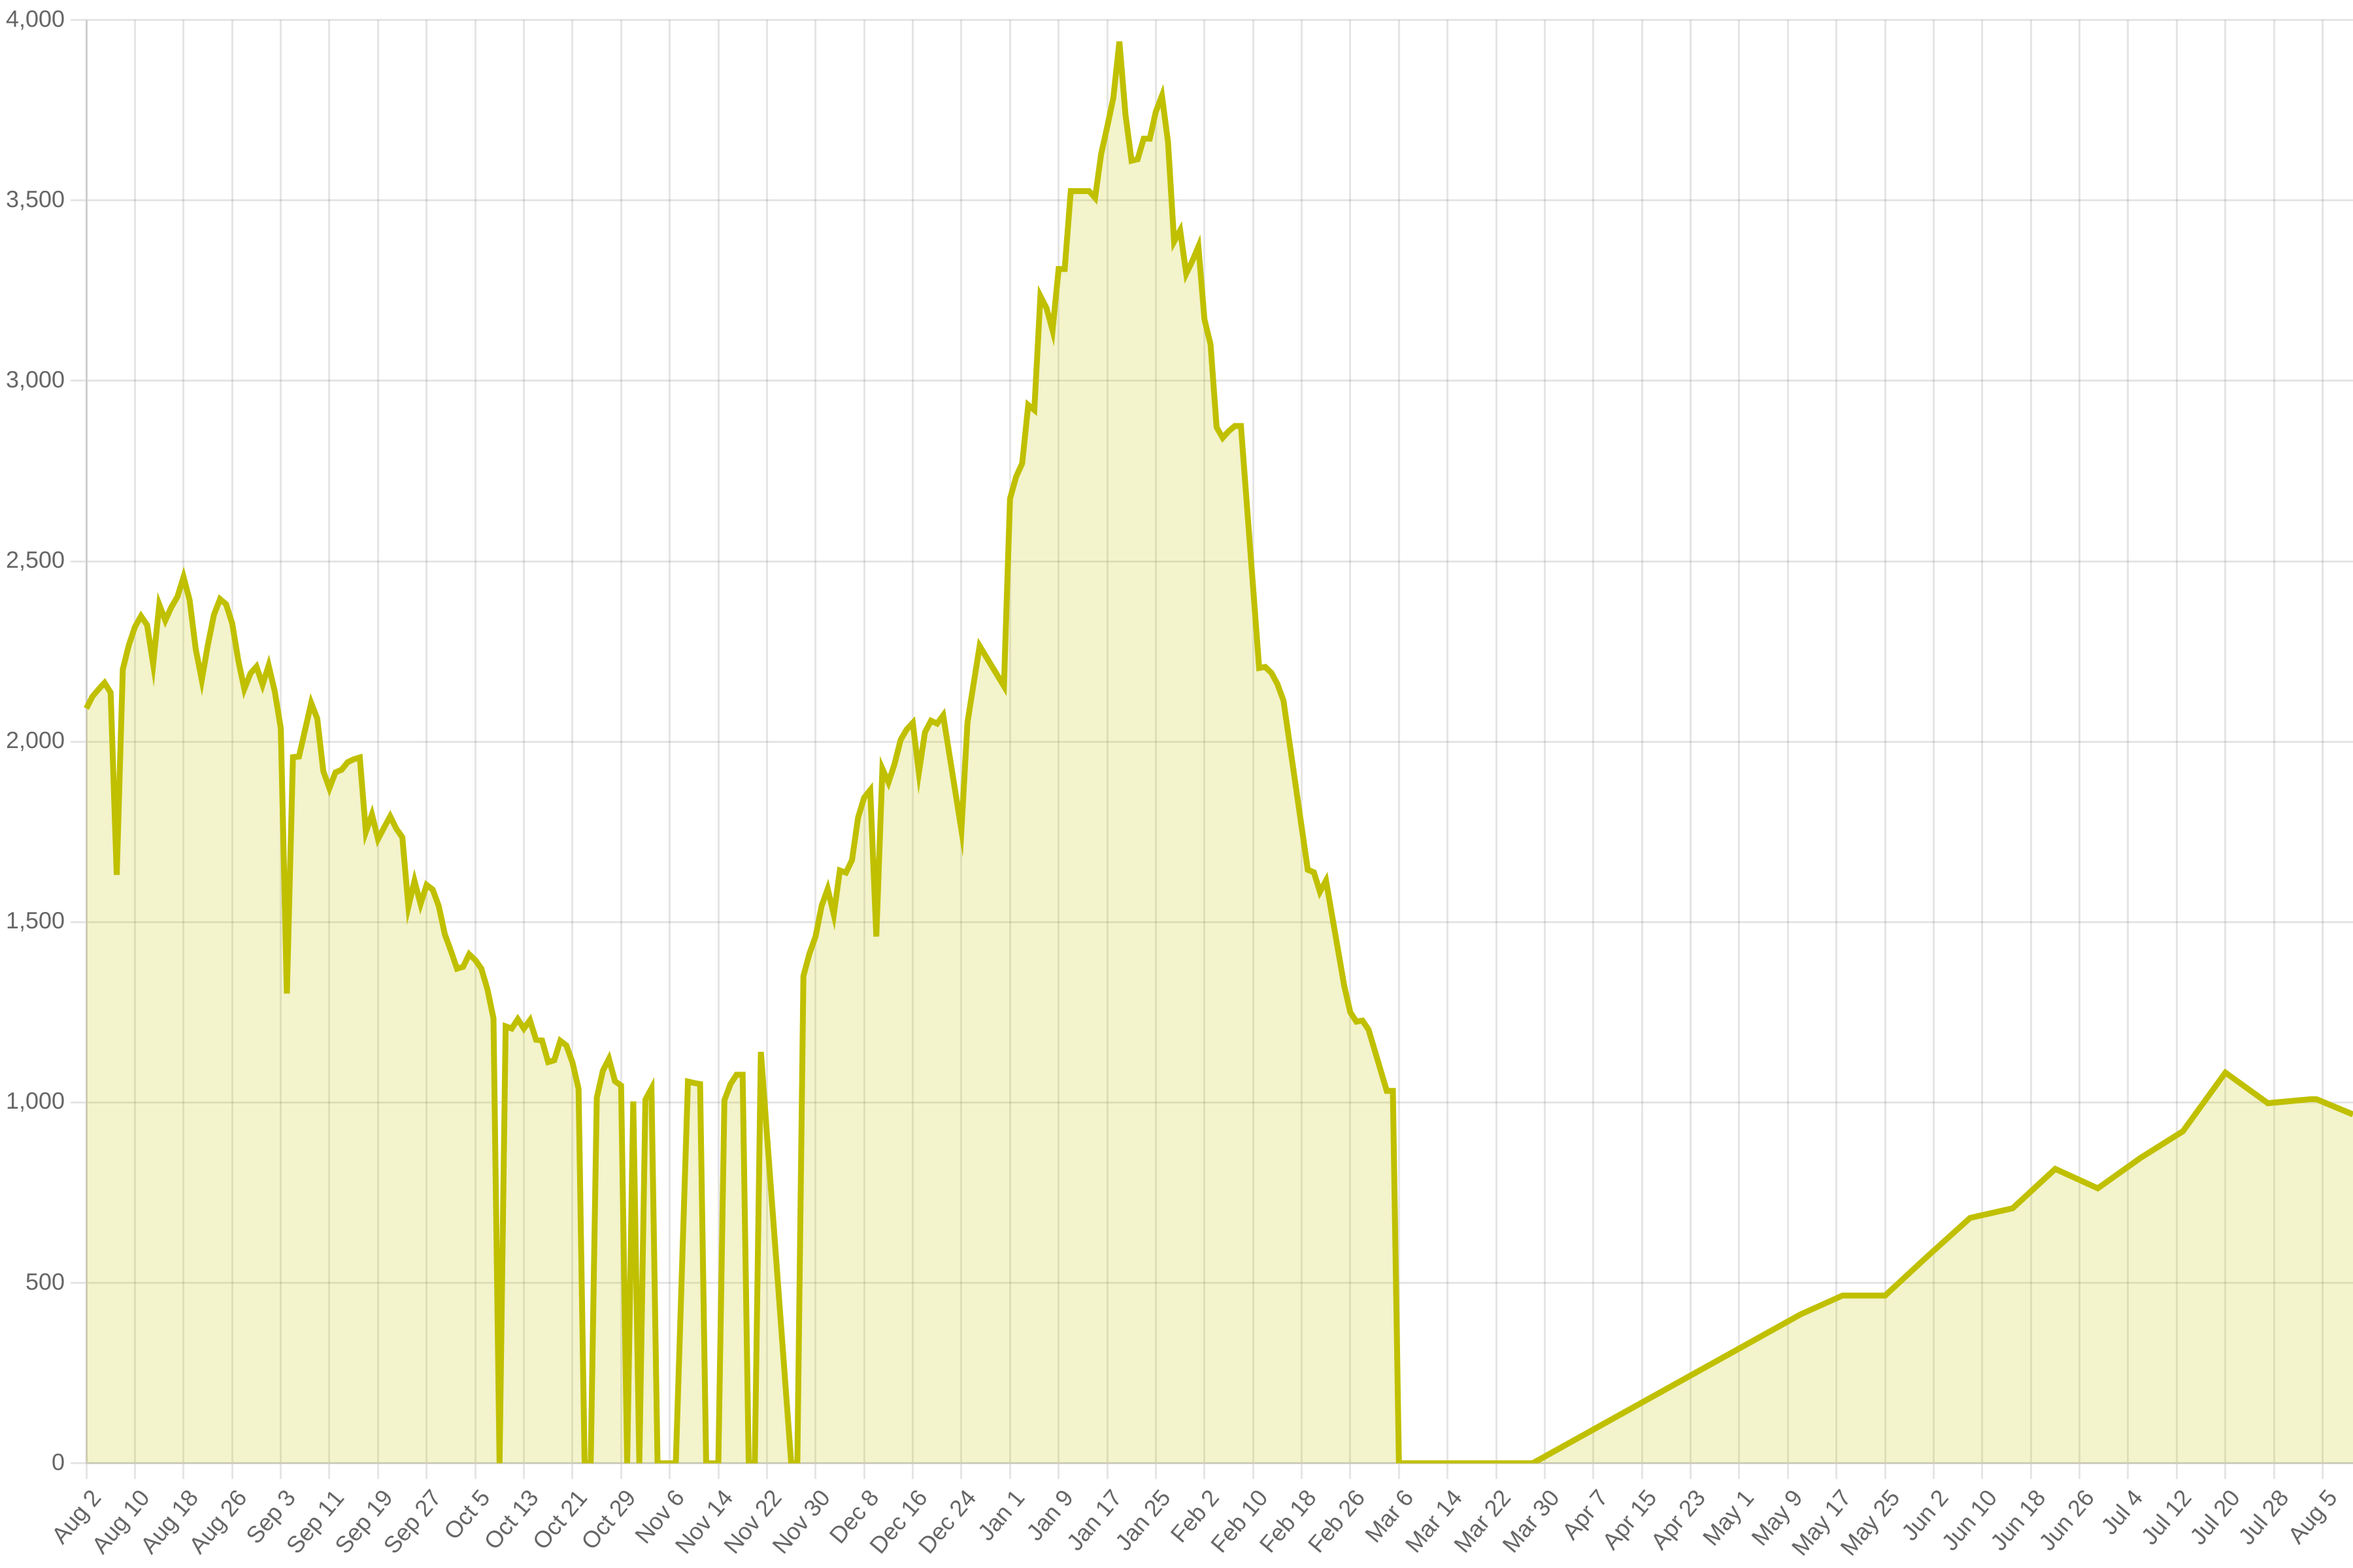
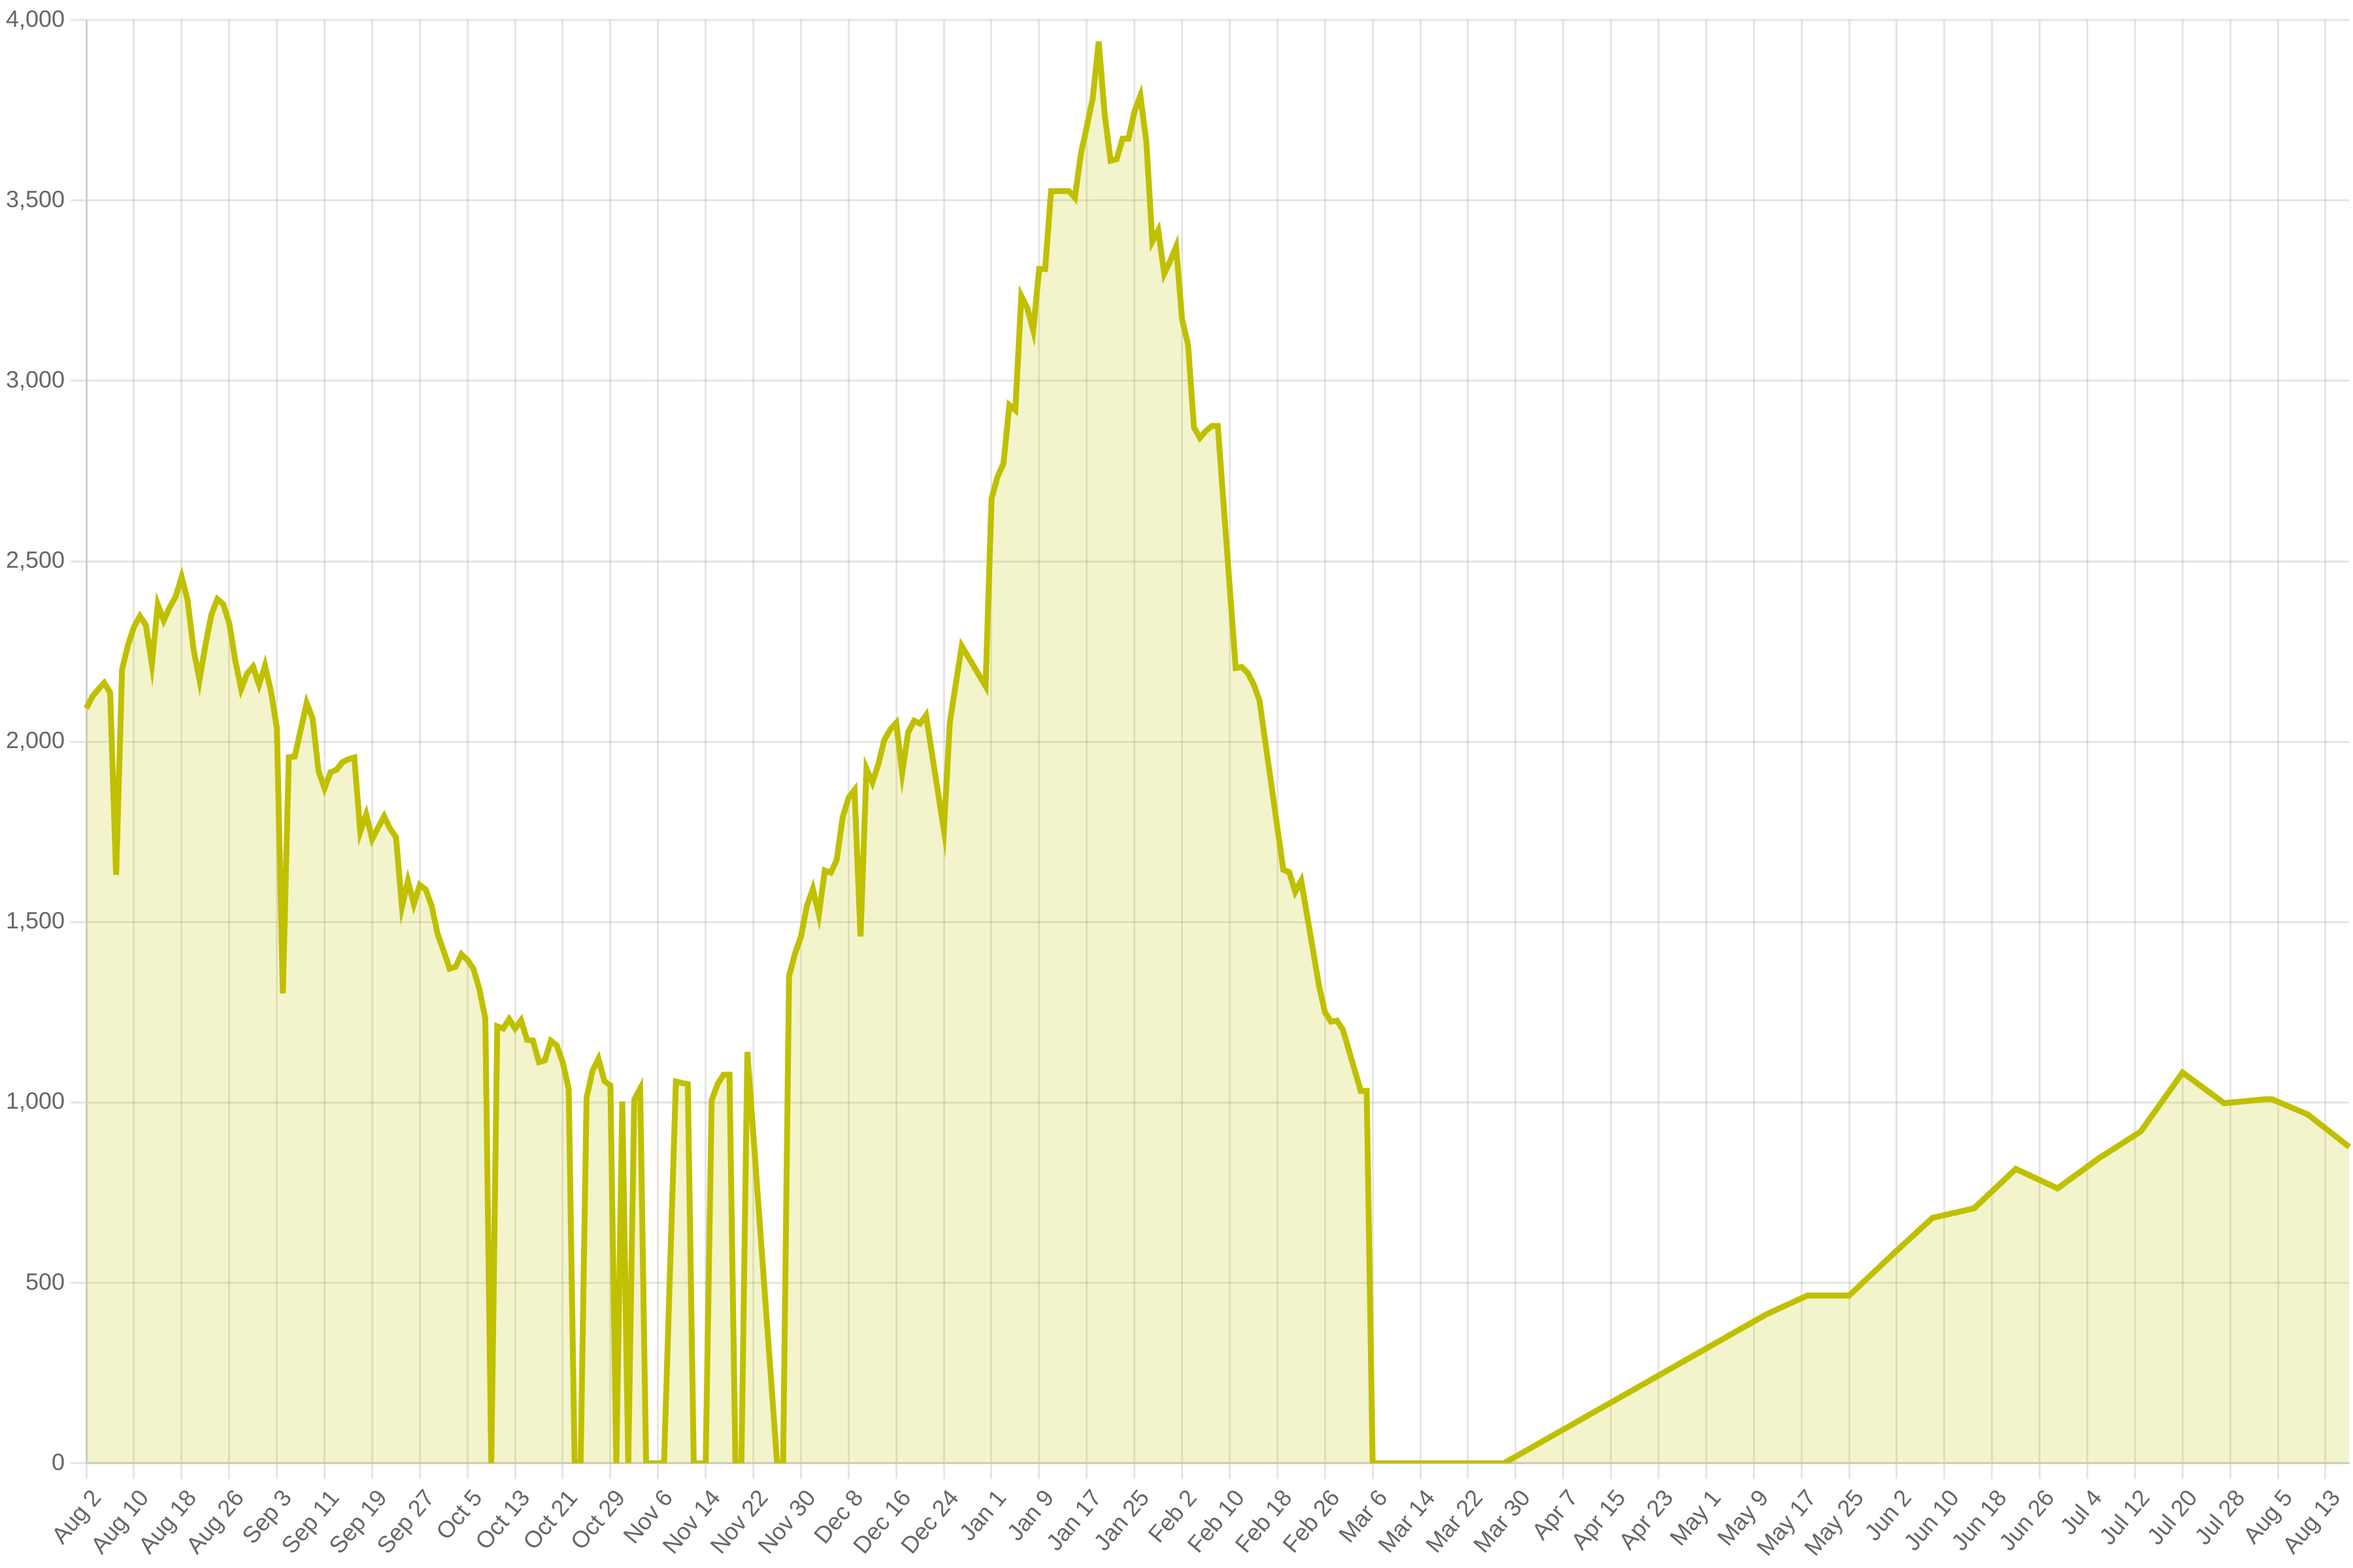
regular update

Changed region(s): [[0.0622, 0.0312, 1.0, 1.0], [0.0622, 0.0312, 0.1867, 0.625]]

diff --git a/docs/index.html b/docs/index.html
@@ -43,10 +43,10 @@
     <main>
       <h1>Missouri COVID data</h1>
       <p>
-        The data on this page was updated <strong>Friday, August 12, 2022</strong>. For
+        The data on this page was updated <strong>Friday, August 19, 2022</strong>. For
         the values that are averages over 7 days, the start date is
-        <strong>Thursday, August 4, 2022</strong> and the end date is
-        <strong>Wednesday, August 10, 2022</strong>. The original data comes from the
+        <strong>Thursday, August 11, 2022</strong> and the end date is
+        <strong>Wednesday, August 17, 2022</strong>. The original data comes from the
         <a
           href="https://results.mo.gov/t/COVID19/views/WeeklyCOVIDMockup_16487370423730/WeeklyReport-Revised-v2?:embed=y&:showVizHome=no&:host_url=https%3A%2F%2Fresults.mo.gov%2F&:embed_code_version=3&:tabs=no&:toolbar=no&:showAppBanner=false&:display_spinner=no&:loadOrderID=0"
           >Missouri Department of Health and Senior Services</a
@@ -79,19 +79,19 @@
 
       <h2>New cases</h2>
       <p>
-        There have been <strong>9,816</strong> new cases in the
-        past 7 days, about <strong>1,402 per day</strong>.
+        There have been <strong>3,787</strong> new cases in the
+        past 7 days, about <strong>541 per day</strong>.
       </p>
       <img src="charts/totalPositive.png" />
 
       <h2>Outcomes</h2>
       <p>
-        There are currently 967 people hospitalized with
+        There are currently 877 people hospitalized with
         COVID-19.
       </p>
       <img src="charts/hospitalizations.png" />
 
-      <p>118 people are in intensive care.</p>
+      <p>877 people are in intensive care.</p>
       <img src="charts/icu.png" />
 
       <h2>Unavailable</h2>
